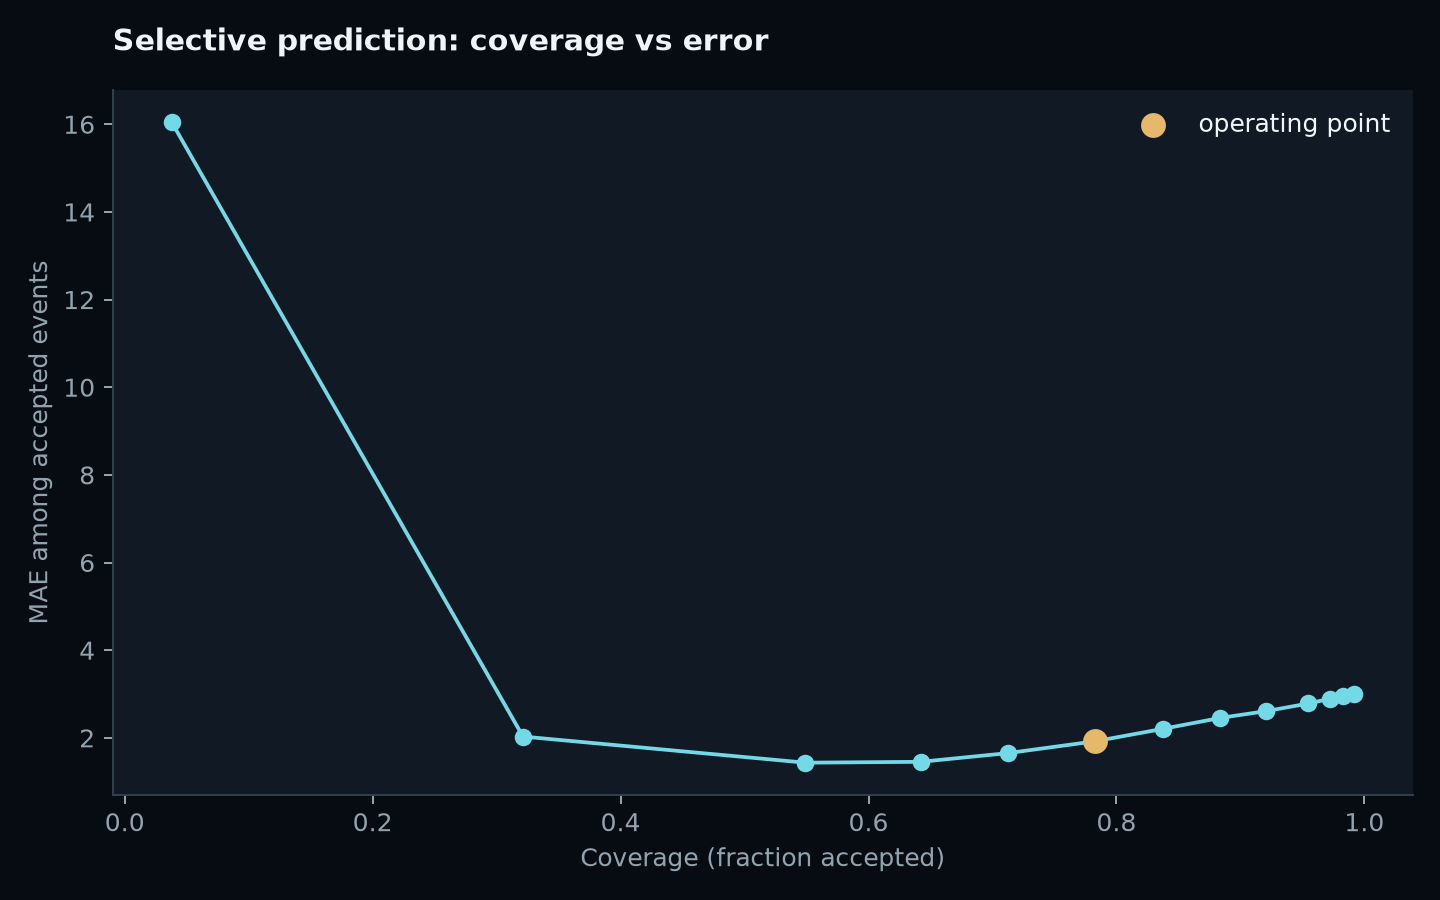
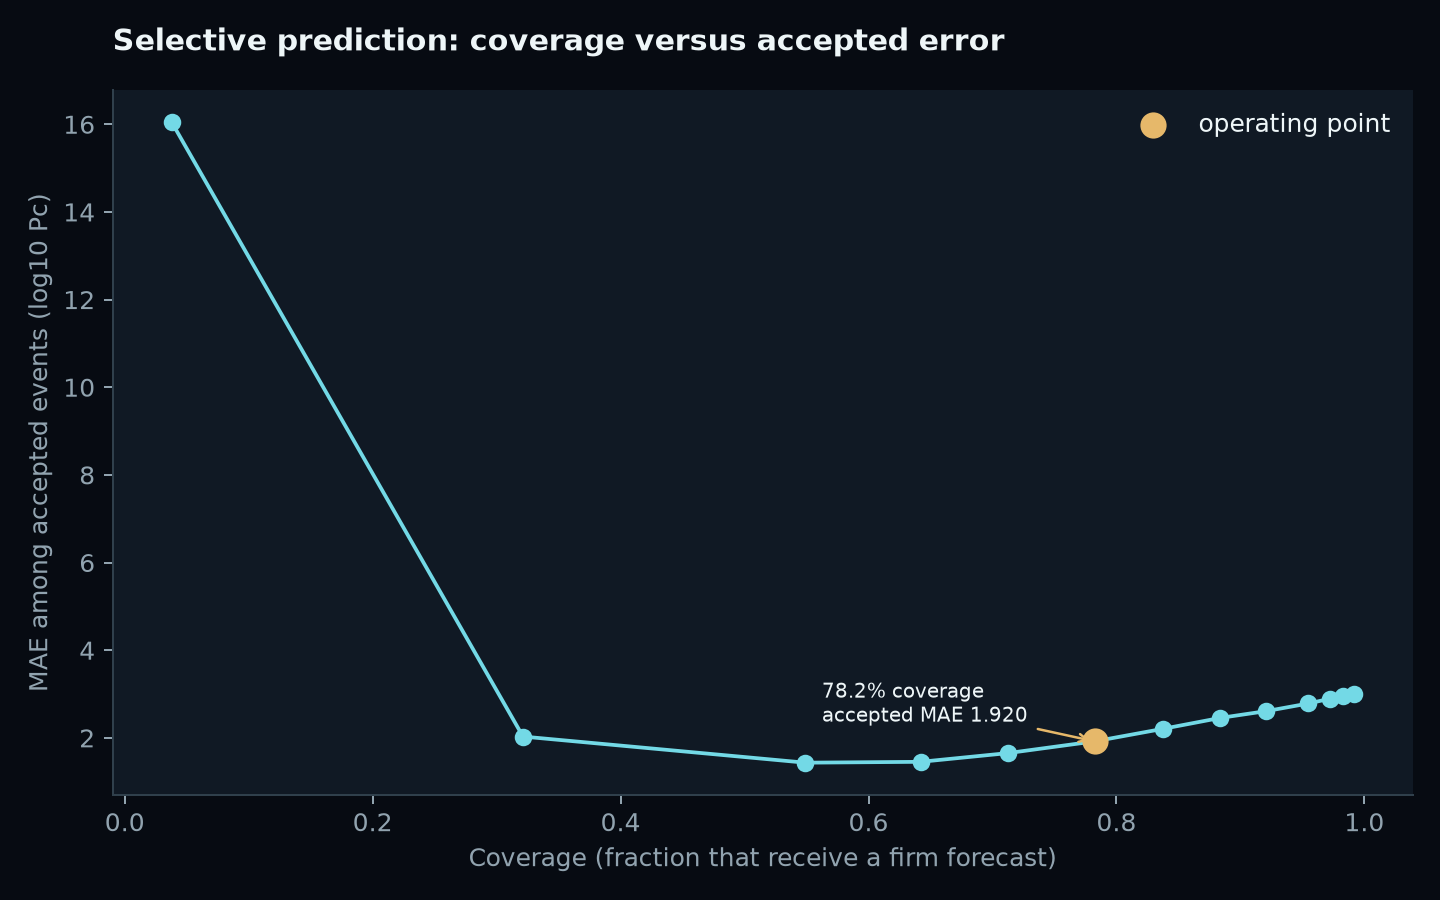
make the horizon, abstention, and shap figures carry the argument

diff --git a/ml/src/plots.py b/ml/src/plots.py
@@ -78,7 +78,11 @@ def generate_plots(metrics_path: Path, output_dir: Path) -> list[Path]:
         xlabel="Predicted high-risk-event probability",
         ylabel="Observed frequency",
     )
-    ax.set_title("High-risk-event probability reliability (small positive class)", loc="left", pad=16)
+    ax.set_title(
+        "High-risk-event probability reliability (small positive class)",
+        loc="left",
+        pad=16,
+    )
     ax.legend(frameon=False, labelcolor=TEXT)
     ax.spines[["top", "right"]].set_visible(False)
     written.append(_save(fig, output_dir / "calibration-reliability.png"))
@@ -122,9 +126,15 @@ def generate_plots(metrics_path: Path, output_dir: Path) -> list[Path]:
         ax.plot(hours, persist_mae, marker="o", color="#476171", label="Persistence")
         ax.plot(hours, model_mae, marker="o", color=CYAN, label="XGBoost")
         ax.invert_xaxis()
-        ax.set_xlabel("Forecast horizon (hours before TCA)")
-        ax.set_ylabel("Mean absolute error")
-        ax.set_title("Waiting helps persistence more than it helps PRISM", loc="left", pad=16)
+        ax.set_xlabel("Forecast horizon (hours before closest approach)")
+        ax.set_ylabel("MAE (log10 Pc)")
+        ax.set_title(
+            "The value of learned forecasting is highest when information is sparse",
+            loc="left",
+            pad=16,
+        )
+        ax.axvline(48, color="#526574", linestyle="--", linewidth=1)
+        ax.text(48, max(persist_mae) * 0.92, "T−48 exhibit cutoff", color=MUTED, fontsize=8)
         ax.legend(frameon=False, labelcolor=TEXT)
         ax.spines[["top", "right"]].set_visible(False)
         written.append(_save(fig, output_dir / "forecast-horizon.png"))
@@ -144,14 +154,23 @@ def generate_plots(metrics_path: Path, output_dir: Path) -> list[Path]:
                 [operating["coverage"]],
                 [operating["maeAccepted"]],
                 color=AMBER,
-                s=80,
+                s=90,
                 zorder=3,
                 label="operating point",
             )
+            ax.annotate(
+                f"{operating['coverage'] * 100:.1f}% coverage\n"
+                f"accepted MAE {operating['maeAccepted']:.3f}",
+                xy=(operating["coverage"], operating["maeAccepted"]),
+                xytext=(operating["coverage"] - 0.22, operating["maeAccepted"] + 0.45),
+                color=TEXT,
+                fontsize=8,
+                arrowprops={"arrowstyle": "->", "color": AMBER},
+            )
             ax.legend(frameon=False, labelcolor=TEXT)
-        ax.set_xlabel("Coverage (fraction accepted)")
-        ax.set_ylabel("MAE among accepted events")
-        ax.set_title("Selective prediction: coverage vs error", loc="left", pad=16)
+        ax.set_xlabel("Coverage (fraction that receive a firm forecast)")
+        ax.set_ylabel("MAE among accepted events (log10 Pc)")
+        ax.set_title("Selective prediction: coverage versus accepted error", loc="left", pad=16)
         ax.spines[["top", "right"]].set_visible(False)
         written.append(_save(fig, output_dir / "abstention-coverage.png"))
 
@@ -192,18 +211,25 @@ def generate_plots(metrics_path: Path, output_dir: Path) -> list[Path]:
             color="#476171",
             label="|error| ≤ 0.5",
         )
+        incorrect_colors = [
+            CYAN if "complete the tracking" in name else AMBER for name in names
+        ]
         ax.barh(
             [y + 0.18 for y in y_pos],
             [incorrect_groups.get(name, 0.0) for name in names],
             height=0.35,
-            color=AMBER,
+            color=incorrect_colors,
             label="|error| ≥ 2.0",
         )
         ax.set_yticks(list(y_pos))
         ax.set_yticklabels(names)
         ax.invert_yaxis()
-        ax.set_xlabel("Mean |SHAP|")
-        ax.set_title("What the model uses when it is right vs wrong", loc="left", pad=16)
+        ax.set_xlabel("Mean |SHAP| (association, not physical cause)")
+        ax.set_title(
+            "Tracking-completeness |SHAP| is higher among large errors",
+            loc="left",
+            pad=16,
+        )
         ax.legend(frameon=False, labelcolor=TEXT)
         ax.spines[["top", "right"]].set_visible(False)
         written.append(_save(fig, output_dir / "shap-contrast.png"))
